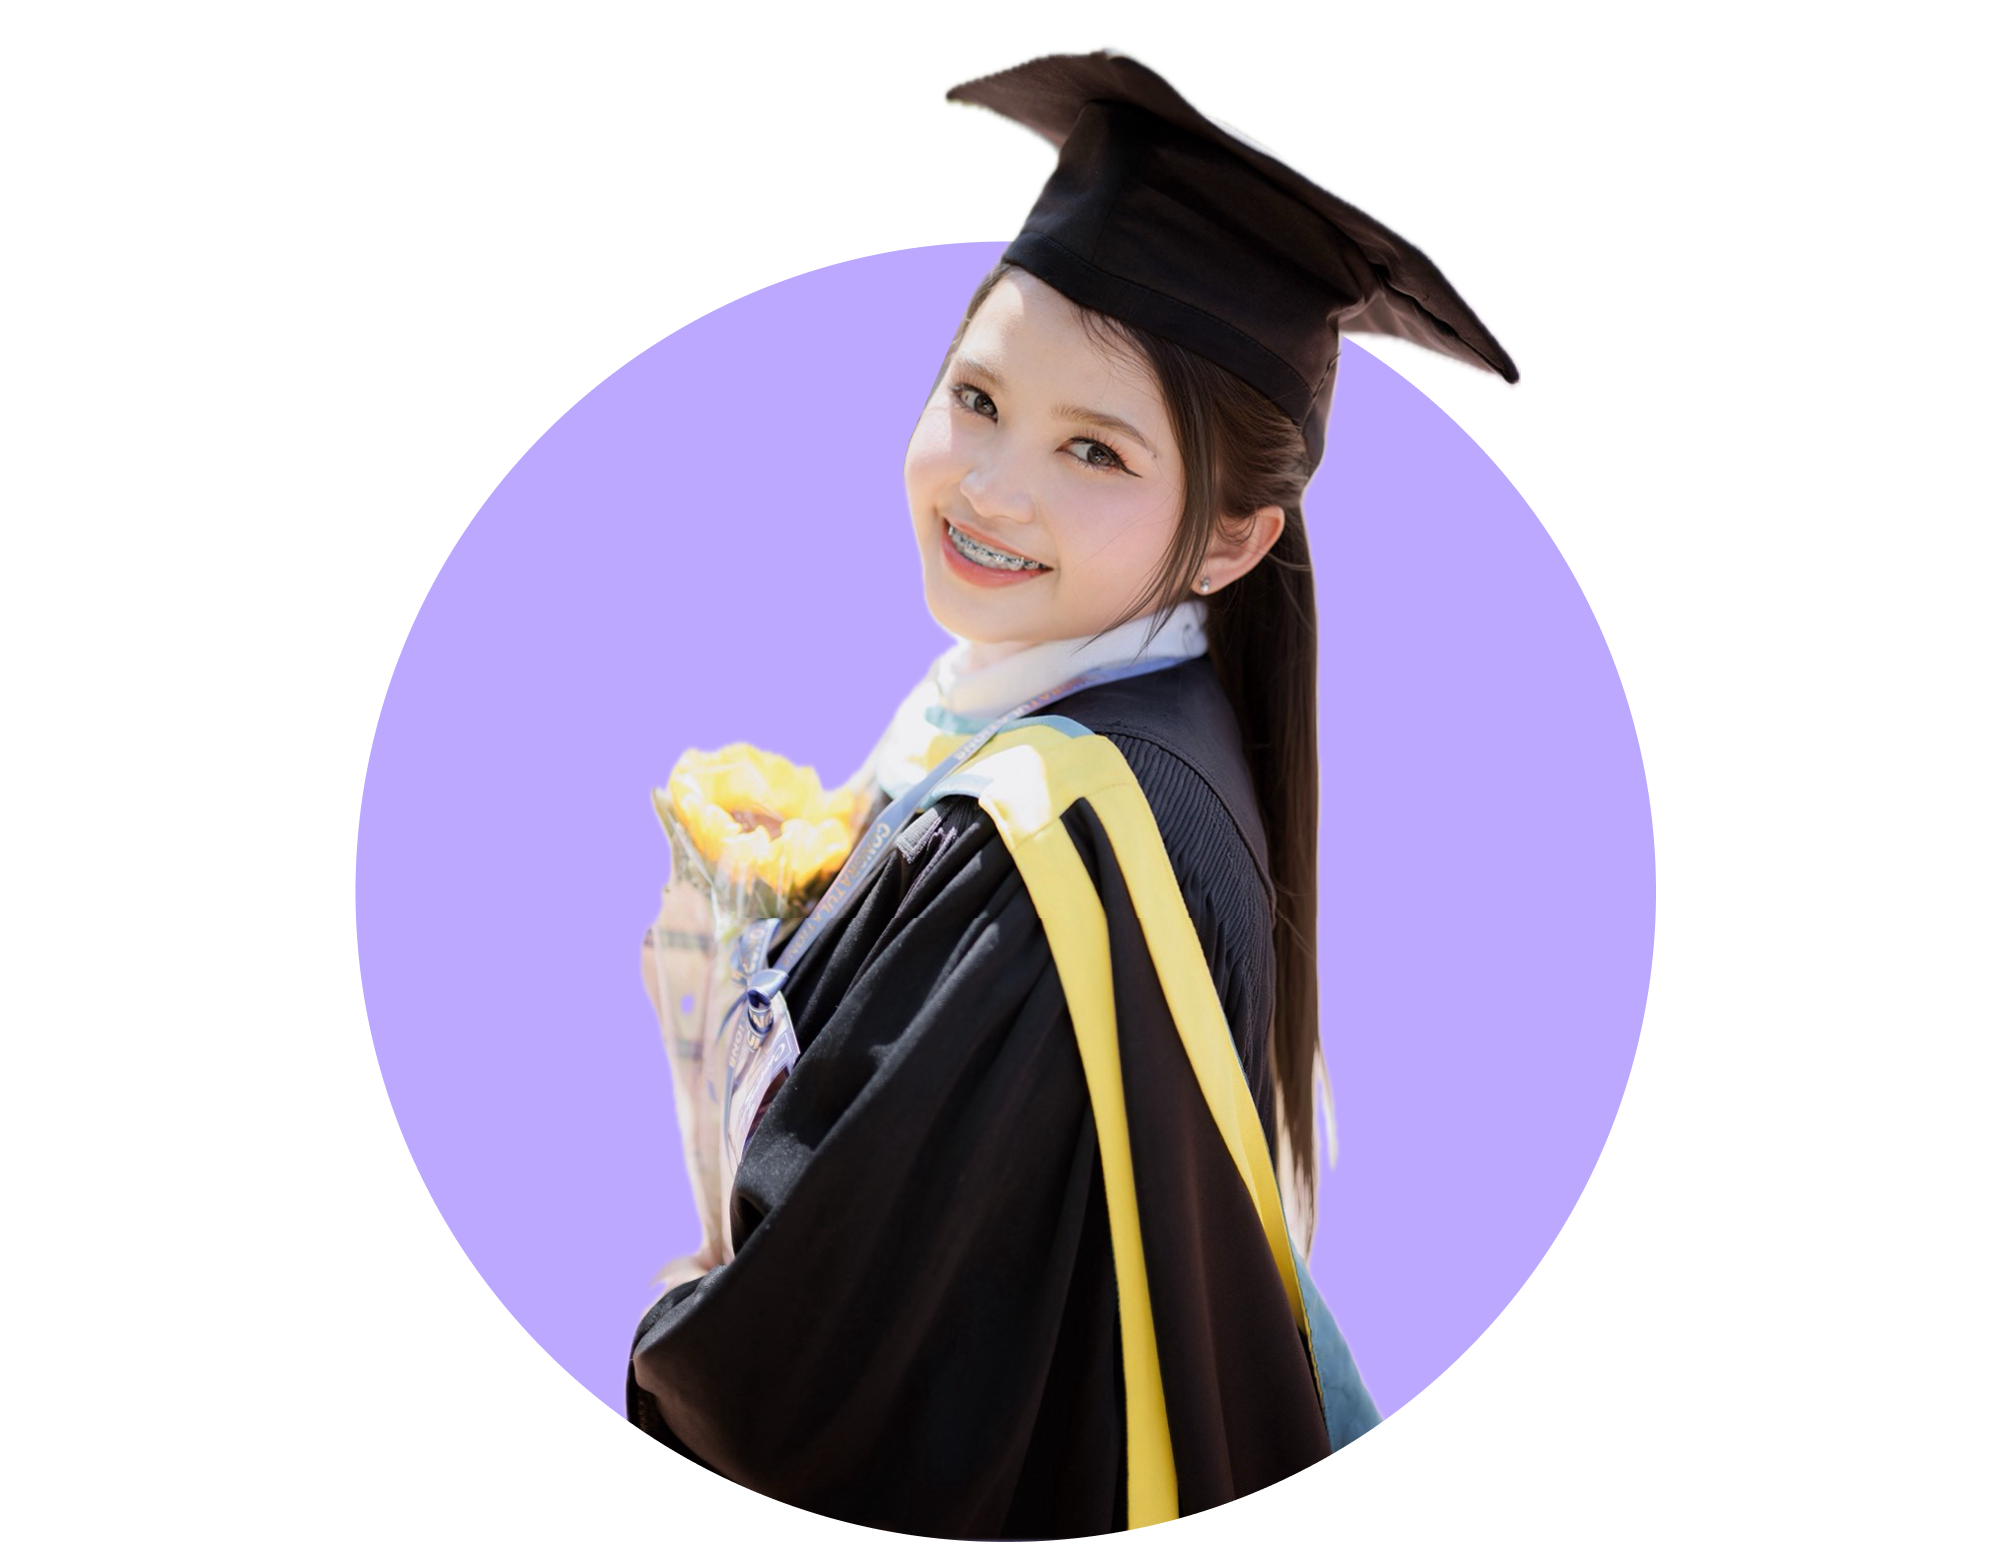
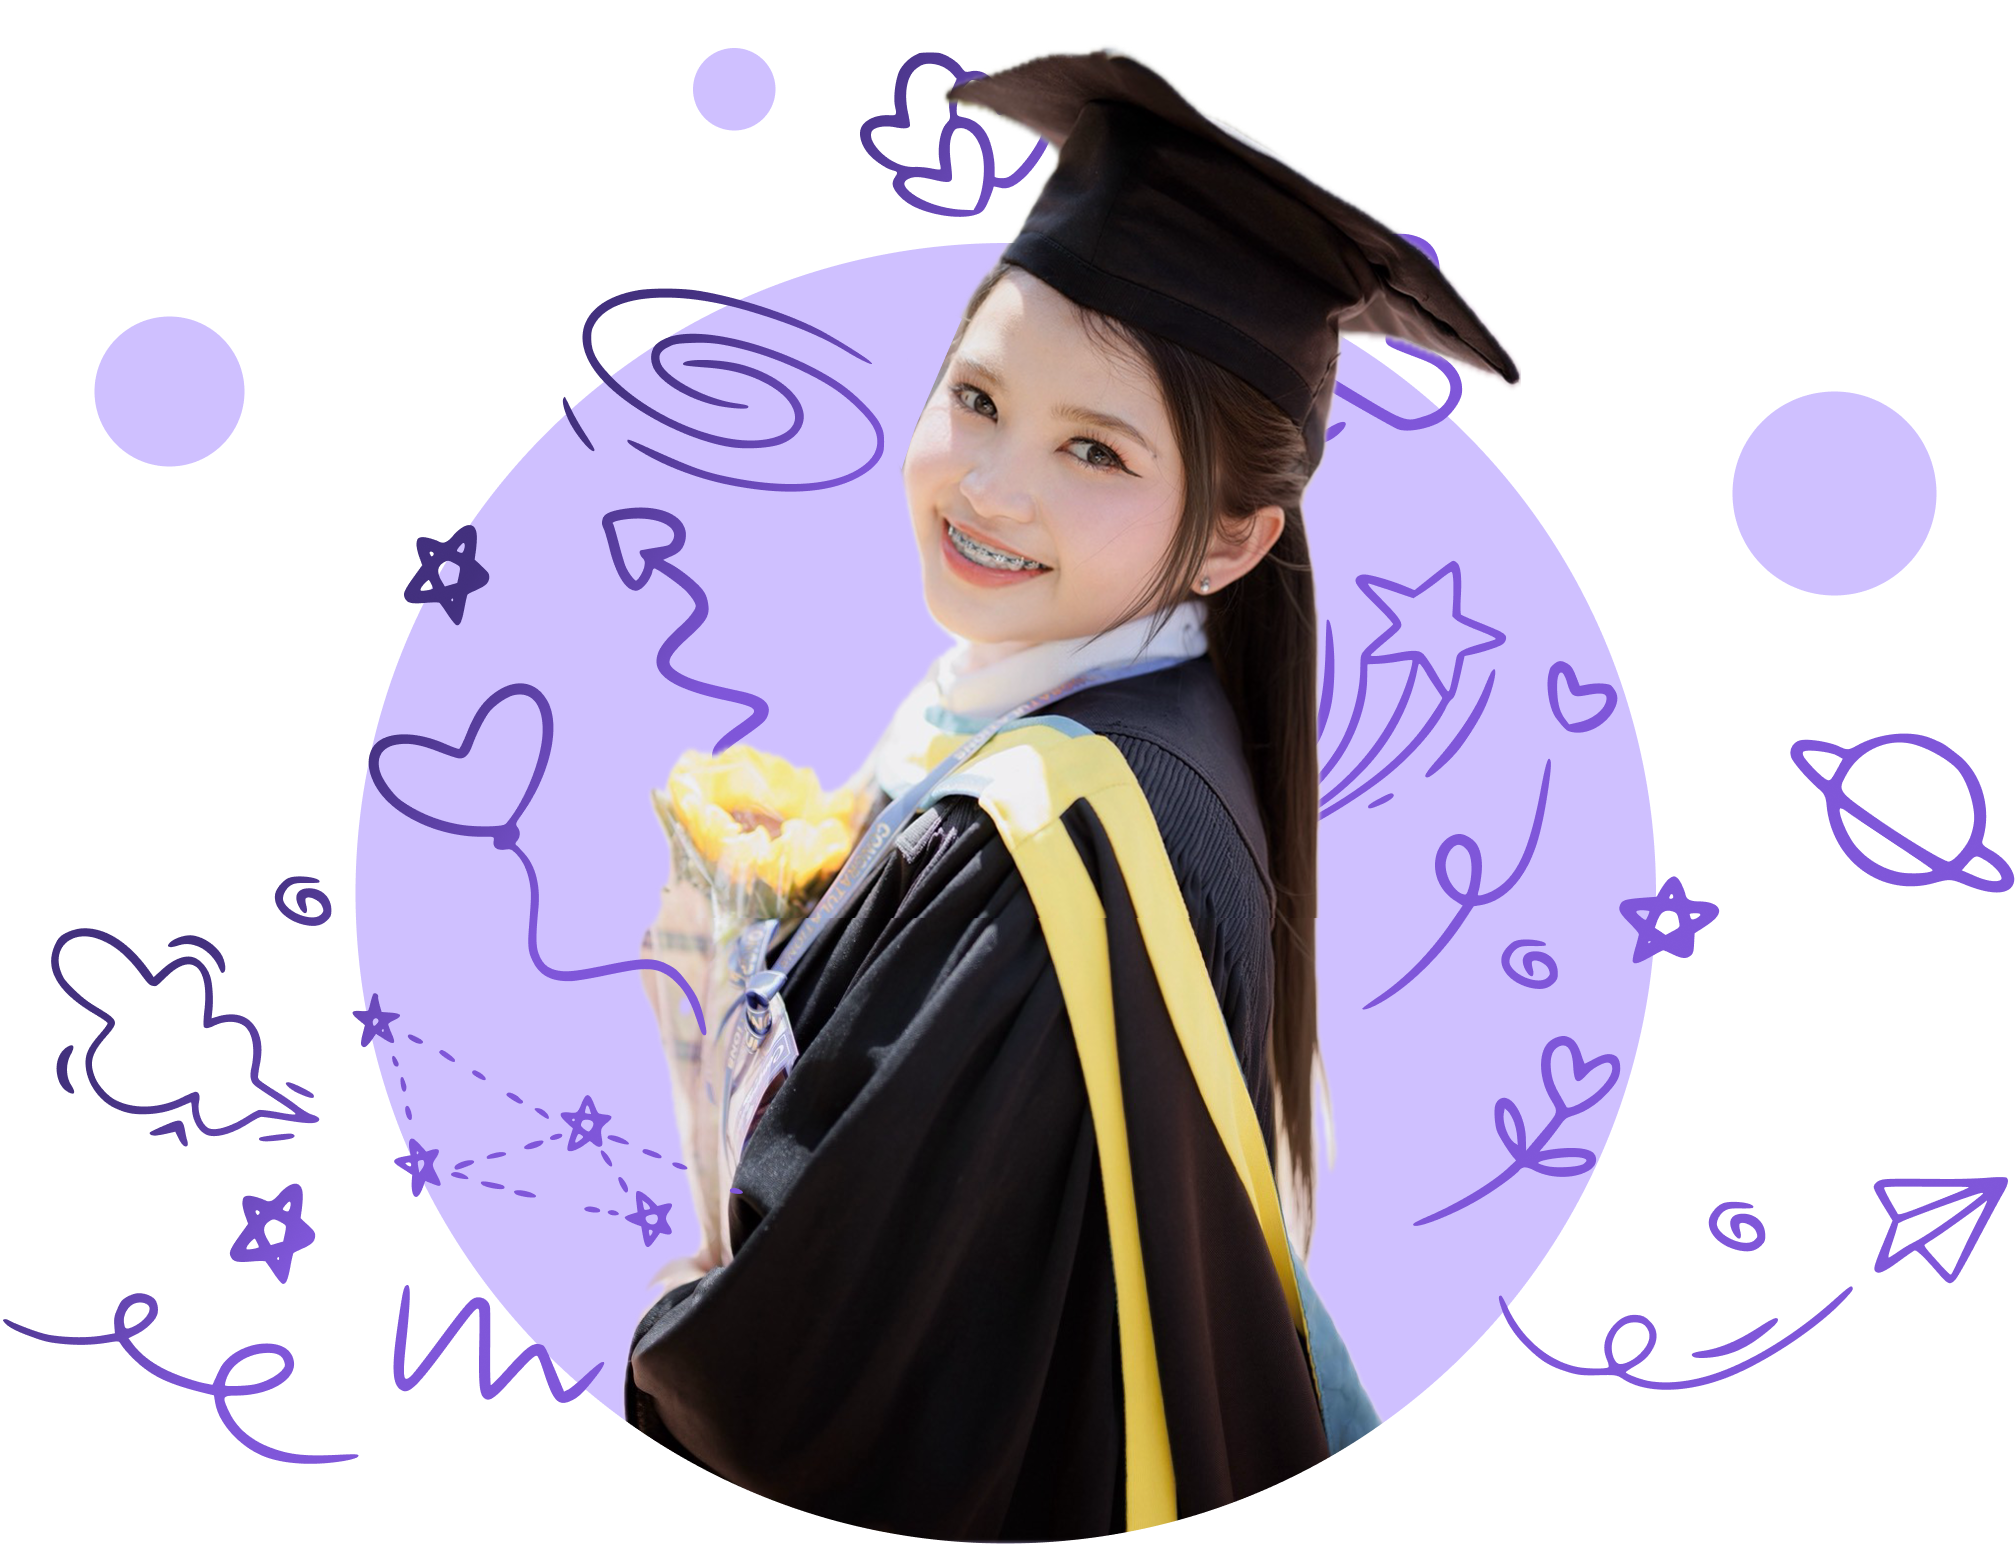
feat(profile): update profile image and redesign About section layout

diff --git a/src/components/Profile.jsx b/src/components/Profile.jsx
@@ -57,15 +57,11 @@ function About() {
           
           {/* --- Left Column: Image --- */}
           <div className="flex justify-center lg:justify-start animate-fadeInLeft order-1 lg:order-1">
-            <div 
-              className="w-full max-w-[350px] md:max-w-[450px] lg:max-w-[520px] cursor-pointer"
-              onMouseEnter={() => setIsHovering(true)}
-              onMouseLeave={() => setIsHovering(false)}
-            >
+            <div className="w-full max-w-[350px] md:max-w-[450px] lg:max-w-[520px]">
               <img 
-                src={isHovering ? profileHover : profileNew}
+                src={profileNew}
                 alt="Prarinporn Chookaew" 
-                className="w-full h-auto object-contain transition-all duration-500" 
+                className="w-full h-auto object-contain" 
               />
             </div>
           </div>
@@ -73,42 +69,61 @@ function About() {
           {/* --- Right Column: Info --- */}
           <div className="animate-fadeInRight order-2 lg:order-2">
             <div className="mb-6 md:mb-8">
-              <h2 className="text-3xl md:text-5xl lg:text-6xl font-semibold text-gray-900 leading-tight font-poppins mb-4 md:mb-6 whitespace-nowrap">
-                <span className="text-purple-600">{text}</span>
-                <span className="animate-pulse">|</span>
-              </h2>
-              <h1 className="text-xl md:text-3xl lg:text-4xl font-semibold text-gray-900 uppercase tracking-wide break-words">
+              <h1 className="text-2xl md:text-4xl lg:text-5xl font-semibold text-purple-600 tracking-wide mb-4 md:mb-6 whitespace-nowrap uppercase">
                 PRARINPORN CHOOKAEW
               </h1>
+              <h2 className="text-2xl md:text-3xl lg:text-4xl font-semibold leading-tight font-poppins whitespace-nowrap mb-4 md:mb-6">
+                <span className="text-gray-900">{text}</span>
+                <span className="animate-pulse text-purple-600">|</span>
+              </h2>
+
+              {/* Passion Quote */}
+              <div className="relative pl-6 md:pl-8  mb-6 md:mb-8">
+                <svg className="absolute -left-1 top-0 w-6 h-6 text-purple-400" fill="currentColor" viewBox="0 0 24 24">
+                  <path d="M14.017 21v-7.391c0-5.704 3.731-9.57 8.983-10.609l.995 2.151c-2.432.917-3.995 3.638-3.995 5.849h4v10h-9.983zm-14.017 0v-7.391c0-5.704 3.748-9.57 9-10.609l.996 2.151c-2.433.917-3.996 3.638-3.996 5.849h3.983v10h-9.983z" />
+                </svg>
+                <p className="text-base md:text-lg text-gray-700 leading-relaxed">
+                  <span className="font-semibold text-gray-900">Designing intuitive experiences that users actually enjoy.</span>
+                </p>
+              </div>
             </div>
 
-            {/* Divider Line */}
-            <div className="w-full h-0.5 bg-gradient-to-r from-purple-400 to-purple-600 mb-6 md:mb-8"></div>
-
             {/* Education Card */}
-            <div>
-              <div className="flex flex-col sm:flex-row gap-4 md:gap-6 items-start">
+            <div className="bg-white border border-gray-100 rounded-3xl px-6 py-5 md:px-8 md:py-6 shadow-[0_0_20px_rgba(0,0,0,0.08)] hover:shadow-[0_0_25px_rgba(0,0,0,0.12)] transition-all duration-300">
+              <div className="flex flex-col sm:flex-row gap-6 md:gap-8 items-center">
                 
                 {/* Logo */}
-                <div className="w-16 h-16 md:w-24 md:h-24 bg-gray-50 rounded-xl p-2 border border-gray-100 flex-shrink-0 flex items-center justify-center">
+                <div className="w-20 h-20 md:w-24 md:h-24 bg-white rounded-3xl p-3 border border-gray-100 flex-shrink-0 flex items-center justify-center shadow-md">
                   <img src={psuLogo} alt="PSU Logo" className="w-full h-full object-contain" />
                 </div>
 
                 {/* Info */}
                 <div className="flex-1 min-w-0">
-                  <h3 className="text-xl md:text-2xl font-semibold text-purple-600 mb-2">Computer Science</h3>
-                  <h4 className="text-base md:text-lg font-semibold text-gray-900 mb-1">Bachelor of Science</h4>
-                  <p className="text-sm md:text-base text-gray-700 font-medium">
-                    Prince of Songkla University
-                  </p>
-                </div>
-
-                {/* Year Badge - Capsule Style */}
-                <div className="px-4 md:px-6 py-2 md:py-3 bg-purple-50 text-purple-600 text-xs md:text-sm font-semibold rounded-full whitespace-nowrap flex-shrink-0 border border-purple-200 flex items-center gap-2">
-                  <svg className="w-3 h-3 md:w-4 md:h-4" fill="none" stroke="currentColor" viewBox="0 0 24 24">
-                    <path strokeLinecap="round" strokeLinejoin="round" strokeWidth={2} d="M8 7V3m8 4V3m-9 8h10M5 21h14a2 2 0 002-2V7a2 2 0 00-2-2H5a2 2 0 00-2 2v12a2 2 0 002 2z" />
-                  </svg>
-                  2018 - 2022
+                  {/* Computer Science with Education Badge */}
+                  <div className="flex items-center justify-between gap-3 mb-2 flex-wrap">
+                    <h3 className="text-lg md:text-xl lg:text-2xl font-bold text-purple-600">
+                      Computer Science
+                    </h3>
+                    <span className="inline-flex items-center gap-1.5 px-3 py-1 bg-gradient-to-r from-purple-50 to-purple-100 text-purple-700 rounded-full text-xs font-semibold border border-purple-200">
+                      <svg className="w-3.5 h-3.5" fill="none" stroke="currentColor" viewBox="0 0 24 24">
+                        <path strokeLinecap="round" strokeLinejoin="round" strokeWidth="2" d="M12 14l9-5-9-5-9 5 9 5z" />
+                        <path strokeLinecap="round" strokeLinejoin="round" strokeWidth="2" d="M12 14l6.16-3.422a12.083 12.083 0 01.665 6.479A11.952 11.952 0 0012 20.055a11.952 11.952 0 00-6.824-2.998 12.078 12.078 0 01.665-6.479L12 14z" />
+                        <path strokeLinecap="round" strokeLinejoin="round" strokeWidth="2" d="M12 14l9-5-9-5-9 5 9 5zm0 0l6.16-3.422a12.083 12.083 0 01.665 6.479A11.952 11.952 0 0012 20.055a11.952 11.952 0 00-6.824-2.998 12.078 12.078 0 01.665-6.479L12 14zm-4 6v-7.5l4-2.222" />
+                      </svg>
+                      Education
+                    </span>
+                  </div>
+                  
+                  <h4 className="text-lg md:text-xl font-semibold text-gray-700 mb-2 pb-4 border-b border-gray-200">Bachelor of Science</h4>
+                  
+                  <div className="flex items-center gap-3 text-sm md:text-base text-gray-600 pt-1">
+                    <svg className="w-4 h-4 text-purple-400" fill="none" stroke="currentColor" viewBox="0 0 24 24">
+                      <path strokeLinecap="round" strokeLinejoin="round" strokeWidth="2" d="M19 21V5a2 2 0 00-2-2H7a2 2 0 00-2 2v16m14 0h2m-2 0h-5m-9 0H3m2 0h5M9 7h1m-1 4h1m4-4h1m-1 4h1m-5 10v-5a1 1 0 011-1h2a1 1 0 011 1v5m-4 0h4" />
+                    </svg>
+                    <span className="font-medium">Prince of Songkla University</span>
+                    <span className="w-1.5 h-1.5 bg-gray-400 rounded-full"></span>
+                    <span className="font-medium">2018 - 2022</span>
+                  </div>
                 </div>
               </div>
             </div>
